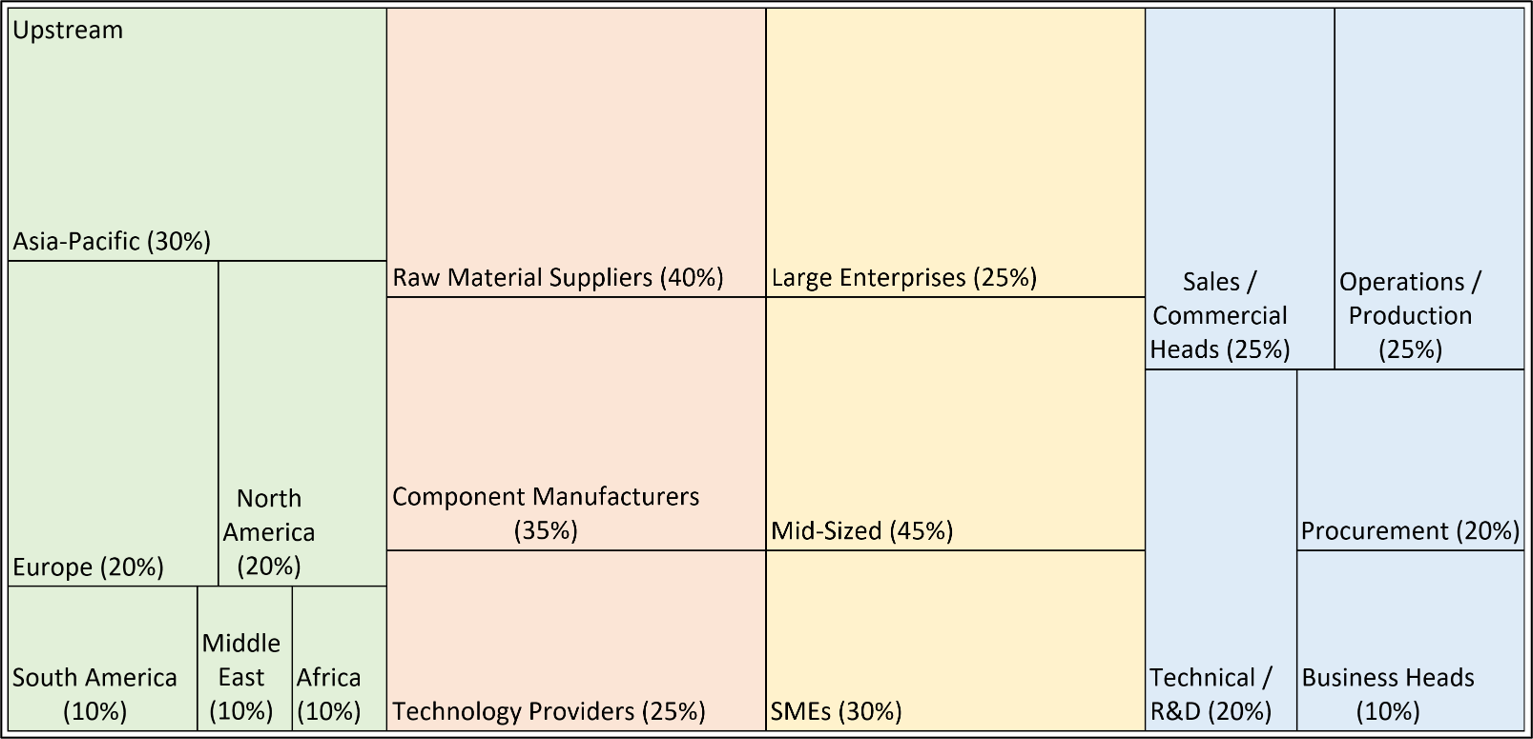
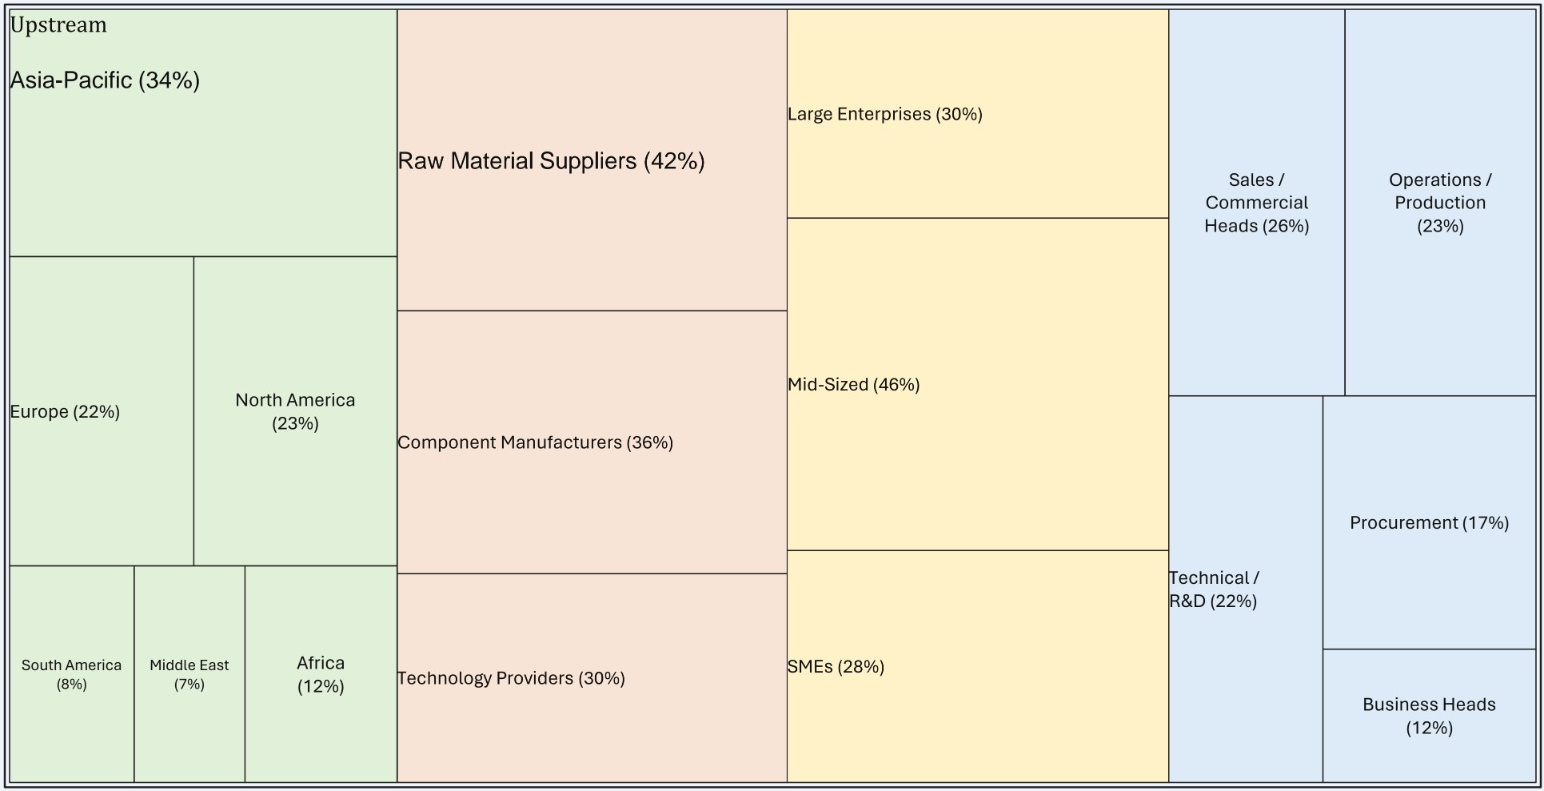
Update methodology sampling distribution diagrams
Replaces the Upstream/Midstream/Downstream treemap images with updated
client versions (refreshed geography, stakeholder, company-size, and
role percentages). Header bar baked into the source images was cropped
out since the page already renders its own heading above each chart;
image dimensions updated accordingly to prevent distortion.

Changed region(s): [[0.0, 0.0, 1.0, 1.0]]

diff --git a/app/research-methodology/page.tsx b/app/research-methodology/page.tsx
@@ -264,8 +264,8 @@ const samplingLayers = [
     Icon: Factory,
     accent: "#2563eb",
     image: "/assets/methodology/Picture1.png",
-    imgWidth: 1533,
-    imgHeight: 739,
+    imgWidth: 1544,
+    imgHeight: 791,
     desc: "Upstream research examines the factors that influence the availability, cost, and evolution of key inputs entering the market.",
     objectives: [
       "Evaluating availability and pricing of raw materials and critical inputs",
@@ -282,8 +282,8 @@ const samplingLayers = [
     Icon: Layers,
     accent: "#059669",
     image: "/assets/methodology/Picture2.png",
-    imgWidth: 1464,
-    imgHeight: 782,
+    imgWidth: 1544,
+    imgHeight: 791,
     desc: "Midstream research focuses on the operational activities that convert inputs into commercially available products and services.",
     objectives: [
       "Production capacity, utilisation rates, and manufacturing expansion plans",
@@ -301,8 +301,8 @@ const samplingLayers = [
     Icon: ShoppingCart,
     accent: "#7c3aed",
     image: "/assets/methodology/Picture3.png",
-    imgWidth: 1377,
-    imgHeight: 731,
+    imgWidth: 1544,
+    imgHeight: 791,
     desc: "The downstream research layer focuses on understanding purchasing behaviour, commercial activity, and end-user market dynamics.",
     objectives: [
       "Examining purchasing criteria and supplier evaluation processes",
